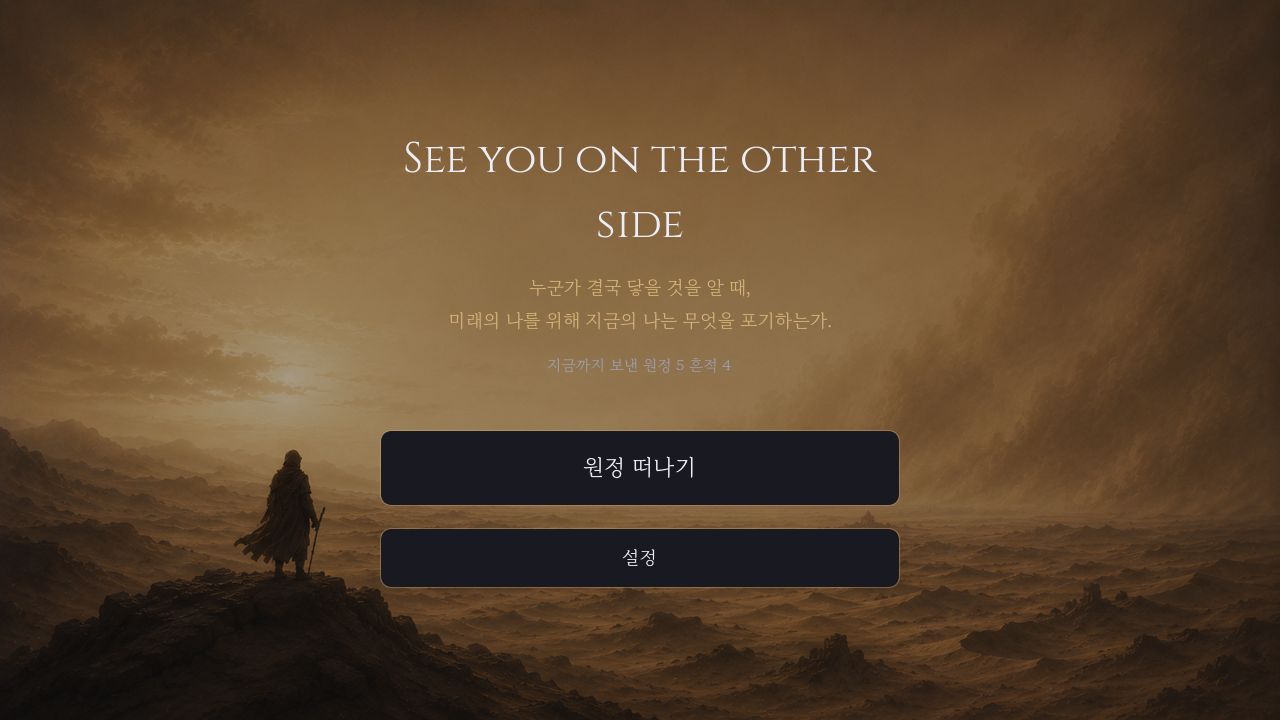
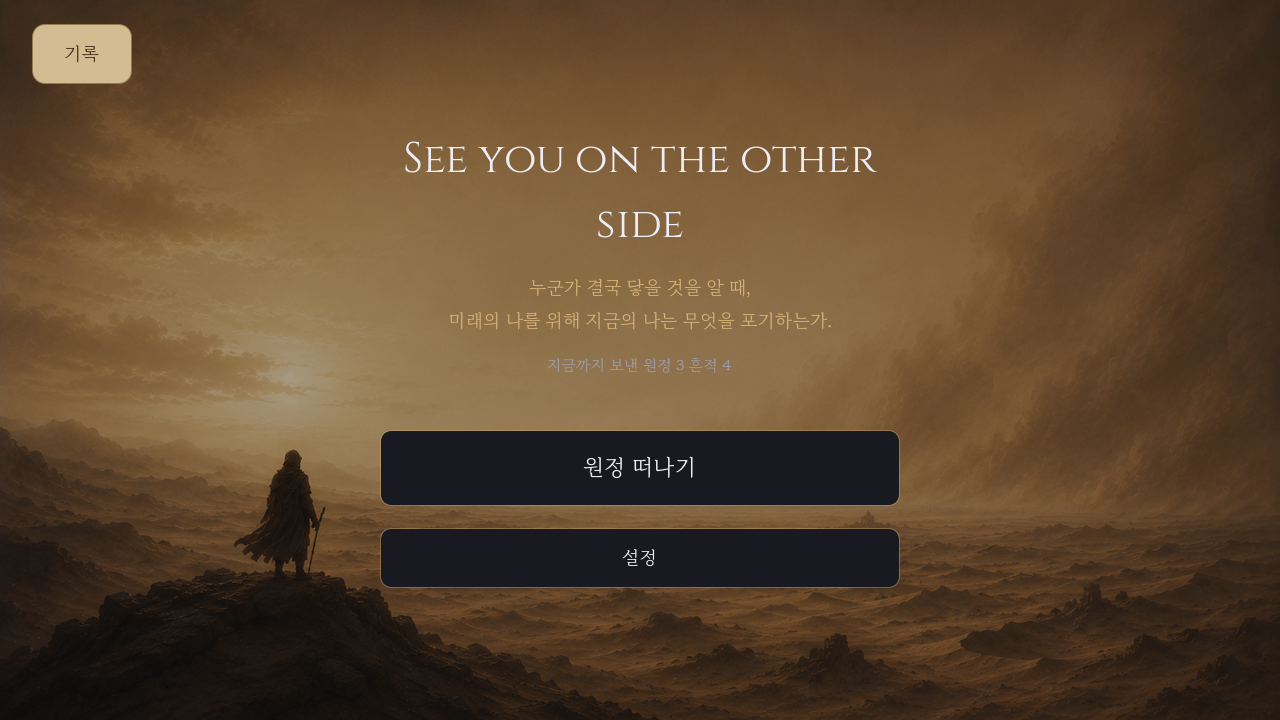
docs(screenshots): UI 들어가는 전체 화면 19종으로 확장
- 시작(타이틀·오프닝) / 마을(원정대 꾸리기·배낭·시장 인트로) / 탐험(지도·단면·이벤트 카드·결과 팝업) / 남기기·죽음 / 결말(순환·재회) / 메타(일대기·조작 안내·튜토리얼 오버레이·설정·설정 확인)
- 모달·서브상태까지: 이벤트 결정 카드(blind choice)·남기기 2단계(태그 풀)·죽음·스포트라이트 튜토리얼·데이터 지우기 확인
- 흐름 순 재번호(01~19) + README 갱신. 세이브 백업·복원(사용자 진행 보존), 임시 드라이버 삭제, project.godot 무변경

Changed region(s): [[0.0, 0.0306, 0.125, 0.1222]]

diff --git a/docs/screenshots/README.md b/docs/screenshots/README.md
@@ -1,31 +1,62 @@
 # 게임 화면 스크린샷 (2026-07-04 현재본)
 
-> **UI 디자인 의뢰용.** 지금 게임의 실제 모습(1280×720 데스크톱 캡처). 클로드 디자인 등 외부에 그대로 보여주면 된다.
+> **UI 디자인 의뢰용.** 지금 게임의 UI 가 들어가는 모든 화면·모달(1280×720 데스크톱 캡처). 클로드 디자인 등 외부에 그대로 보여주면 된다.
 > UI 스타일 스펙(정확한 팔레트 HEX·타이포·컴포넌트)은 `../handoffs/UI_스타일_핸드오프.md` 참고.
-> ⚠ 시점 스냅샷 — UI 가 바뀌면 낡는다(재생성은 아래). **04 지도는 렌더 개편 진행 중**이라 곧 달라질 수 있음.
+> ⚠ 시점 스냅샷 — UI 가 바뀌면 낡는다(재생성은 아래). **06 지도는 렌더 개편 진행 중**이라 곧 달라질 수 있음.
 
-## 화면 목록
+## 화면 목록 (19종, 게임 흐름 순)
 
-| 파일 | 화면 | 무엇이 보이나 |
-|---|---|---|
-| `01_title.png` | 타이틀 | 손그림 키아트 배경, Cinzel 제목, 한글 부제, 큰 필(pill) 버튼 2개(원정 떠나기·설정), 상단 누적 스탯 |
-| `02_opening.png` | 오프닝 서사 | 첫 플레이 내레이션 슬라이드(사막 삽화 + 본문 + 건너뛰기 + "탭하여 계속") |
-| `03_loadout.png` | 마을·가방 꾸리기 | 시장 노인 초상, 하게체 대사, 원정대 이름(+다시 뽑기), 직능·도구 드롭다운, 좌우 가방·책상 배경 아트 |
-| `04_map.png` | 탑뷰 지도 | 양피지 배경, 손스케치 지형 아이콘, 발자국 자취, 안개(방문한 곳만 공개), 상단 자원 HUD, 하단 남기기 버튼. **⚠ 렌더 개편 중** |
-| `05_section.png` | 도착 노드 단면 탐험 | 절차/실사 단면 아트, 붉은 원형 조사 지점, "조사 N번 가능", 상단 HUD, 하단 떠난다·남기기 |
-| `06_ending_cycle.png` | 결말 · 순환 | 어두운 카드 모달("도달"). 재앙의 자리를 밀어내고 릴레이가 이어지는 서늘한 엔딩 |
-| `07_ending_reunion.png` | 결말 · 재회 | 따뜻한 엔딩 카드("재회"). 흔적 충분 + 무사 도달 시 먼저 간 모든 원정대와 재회(진짜 엔딩) |
-| `08_chronicle.png` | 원정 일대기 (책갈피) | 상시 책갈피가 여는 릴레이 기록 — 도달/재회/스러짐/진행 중을 원정별로 |
-| `09_settings.png` | 설정 | 카드 모달(소리 슬라이더·저장 데이터 지우기·닫기) + 좌상단 "기록" 책갈피 버튼 |
+### 시작
+| 파일 | 화면 |
+|---|---|
+| `01_title.png` | 타이틀 — 손그림 키아트, Cinzel 제목, 필 버튼(원정 떠나기·설정), 누적 스탯 |
+| `02_opening.png` | 오프닝 서사 슬라이드 — 사막 삽화 + 내레이션 + 건너뛰기 |
+
+### 마을 · 원정 준비 (Loadout)
+| 파일 | 화면 |
+|---|---|
+| `03_loadout_party.png` | 원정대 꾸리기(1단계) — 대장 초상, 원정대 이름, 직능·도구 드롭다운 |
+| `04_loadout_bag.png` | 배낭 챙기기(2단계) — 책상 아이템 삽화 타일 + 6칸 가방 슬롯 |
+| `05_market_intro.png` | 첫 원정 시장 인트로 모달 — 시장 노인 초상 + 규칙 안내 |
+
+### 지도 · 탐험
+| 파일 | 화면 |
+|---|---|
+| `06_map.png` | 탑뷰 지도 — 양피지·손스케치 아이콘·발자국·안개·자원 HUD·남기기. **⚠ 개편 중** |
+| `07_section.png` | 도착 노드 단면 탐험 — 단면 아트, 붉은 조사 지점, "조사 N번 가능" |
+| `08_event_card.png` | 결정 카드(이벤트) — 위협 태그 + 선택지(누르기 전 결과 숨김 = blind choice) |
+| `09_result_popup.png` | 조사·선택 결과 팝업 — 묘사 + 자원 델타 + 계속 |
+
+### 남기기 · 죽음
+| 파일 | 화면 |
+|---|---|
+| `10_bequeath_what.png` | 남기기 1단계 — 무엇을 남길까(물통/식량/로프/은신막, 비용·보유) |
+| `11_bequeath_tags.png` | 남기기 2단계 — 표식(WordPool 단어) 고르기 |
+| `12_death.png` | 죽음 화면 — 사인 + 남긴 시체 표식 + 다음 원정대 |
+
+### 결말
+| 파일 | 화면 |
+|---|---|
+| `13_ending_cycle.png` | 순환 엔딩 카드("도달") — 릴레이가 이어지는 서늘한 결말 |
+| `14_ending_reunion.png` | 재회 엔딩 카드("재회") — 흔적 축적 + 무사 도달 시 진짜 엔딩 |
+
+### 메타 UI (오버레이)
+| 파일 | 화면 |
+|---|---|
+| `15_chronicle.png` | 원정 일대기(책갈피) — 도달/재회/스러짐/진행 중을 원정별로 |
+| `16_tutorial_pages.png` | 책갈피 조작 안내 페이지(1/4) |
+| `17_tutorial_overlay.png` | 첫 원정 스포트라이트 튜토리얼 — 강조 영역 + 말풍선(지도 위) |
+| `18_settings.png` | 설정 카드 — 소리 슬라이더·데이터 지우기·닫기 + 좌상단 기록 버튼 |
+| `19_settings_confirm.png` | 데이터 지우기 확인 — 위험 강조 + 아니 둔다/지운다 |
 
 ## UI 어휘 요약 (디자이너용 빠른 참고)
 
 - **팔레트:** 밤하늘 남색 배경 `#0C0D18` + 세피아/모래 베이지 액센트 + 양피지 `#D1BC91`. 서늘·건조·낡은 톤.
-- **컴포넌트:** 어두운 반투명 **카드 모달**, 둥근 **필 버튼**(큰 터치 타깃), 상단 반투명 **HUD 바**, 드롭다운, 슬라이더.
-- **타이포:** 제목 Cinzel(라틴), 본문 마루부리(한글), 지도 지명은 붓글씨. 장식 유니코드는 폰트에 없어 회피(아이콘은 절차적 draw).
+- **컴포넌트:** 어두운 반투명 **카드 모달**, 둥근 **필 버튼**(큰 터치 타깃), 상단 반투명 **HUD 바**, 토글 태그 버튼, 드롭다운, 슬라이더, 아이템 삽화 타일/슬롯.
+- **타이포:** 제목 Cinzel(라틴), 본문 마루부리(한글), 지도 지명 붓글씨. 장식 유니코드는 폰트에 없어 회피(아이콘은 절차적 draw).
 - **제약:** 웹(GL Compatibility) + 터치 우선 → 셰이더/GPUParticles 없음, 버튼 큼직(~56px+).
 
 ## 재생성
 
-임시 스크린샷 드라이버로 자동 캡처했다(캡처 후 삭제). 다시 필요하면 Claude 에게 "스크린샷 다시" 라고 하면 된다
-(각 화면 상태를 인메모리로 세팅 → `res://docs/screenshots/` 로 1프레임 저장, 세이브는 백업·복원). `.gdignore` 로 Godot 임포트/웹 export 에서는 제외된다.
+임시 스크린샷 드라이버(각 화면 상태를 인메모리로 세팅 → 1프레임 저장)로 자동 캡처했다(캡처 후 삭제). 다시 필요하면 Claude 에게 "스크린샷 다시" 라고 하면 된다.
+세이브는 백업·복원해 사용자 진행은 보존된다. `.gdignore` 로 이 폴더는 Godot 임포트·웹 export 에서 제외된다.
